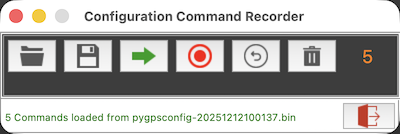
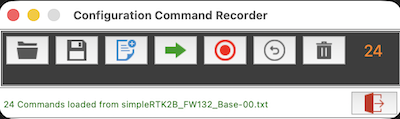
add recorder preset import facility

diff --git a/src/pygpsclient/recorder_dialog.py b/src/pygpsclient/recorder_dialog.py
@@ -18,6 +18,7 @@ Created on 9 Jan 2023
 
 # pylint: disable=unused-argument
 
+from datetime import datetime
 from threading import Event, Thread
 from time import sleep
 from tkinter import CENTER, EW, NSEW, Button, Frame, Label, TclError, W, filedialog
@@ -45,6 +46,7 @@ from pygpsclient.globals import (
     FGCOL,
     HOME,
     ICON_DELETE,
+    ICON_IMPORT,
     ICON_LOAD,
     ICON_RECORD,
     ICON_SAVE,
@@ -56,7 +58,7 @@ from pygpsclient.globals import (
     PNTCOL,
     UNDO,
 )
-from pygpsclient.helpers import set_filename
+from pygpsclient.helpers import nmea2preset, set_filename, tty2preset, ubx2preset
 from pygpsclient.strings import DLGTRECORD, SAVETITLE
 from pygpsclient.toplevel_dialog import ToplevelDialog
 
@@ -100,6 +102,7 @@ class RecorderDialog(ToplevelDialog):
         self._img_play = ImageTk.PhotoImage(Image.open(ICON_SEND))
         self._img_stop = ImageTk.PhotoImage(Image.open(ICON_STOP))
         self._img_record = ImageTk.PhotoImage(Image.open(ICON_RECORD))
+        self._img_import = ImageTk.PhotoImage(Image.open(ICON_IMPORT))
         self._img_undo = ImageTk.PhotoImage(Image.open(ICON_UNDO))
         self._img_delete = ImageTk.PhotoImage(Image.open(ICON_DELETE))
         self._rec_status = STOP
@@ -135,6 +138,14 @@ class RecorderDialog(ToplevelDialog):
             image=self._img_save,
             width=40,
             command=self._on_save,
+            highlightbackground=BGCOL,
+            highlightthickness=2,
+        )
+        self._btn_import = Button(
+            self._frm_body,
+            image=self._img_import,
+            width=40,
+            command=self._on_import,
             highlightbackground=BGCOL,
             highlightthickness=2,
         )
@@ -191,11 +202,12 @@ class RecorderDialog(ToplevelDialog):
         self._frm_body.grid(column=0, row=0, sticky=NSEW)
         self._btn_load.grid(column=0, row=0, ipadx=3, ipady=3, sticky=W)
         self._btn_save.grid(column=1, row=0, ipadx=3, ipady=3, sticky=W)
-        self._btn_play.grid(column=2, row=0, ipadx=3, ipady=3, sticky=W)
-        self._btn_record.grid(column=3, row=0, ipadx=3, ipady=3, sticky=W)
-        self._btn_undo.grid(column=4, row=0, ipadx=3, ipady=3, sticky=W)
-        self._btn_delete.grid(column=5, row=0, ipadx=3, ipady=3, sticky=W)
-        self._lbl_memory.grid(column=6, row=0, ipadx=3, ipady=3, sticky=W)
+        self._btn_import.grid(column=2, row=0, ipadx=3, ipady=3, sticky=W)
+        self._btn_play.grid(column=3, row=0, ipadx=3, ipady=3, sticky=W)
+        self._btn_record.grid(column=4, row=0, ipadx=3, ipady=3, sticky=W)
+        self._btn_undo.grid(column=5, row=0, ipadx=3, ipady=3, sticky=W)
+        self._btn_delete.grid(column=6, row=0, ipadx=3, ipady=3, sticky=W)
+        self._lbl_memory.grid(column=7, row=0, ipadx=3, ipady=3, sticky=W)
         self._lbl_activity.grid(column=0, row=2, columnspan=7, padx=3, sticky=EW)
 
         (cols, rows) = self.grid_size()
@@ -450,6 +462,49 @@ class RecorderDialog(ToplevelDialog):
         stat = "started" if self._rec_status else "stopped"
         self.status_label = (f"Recording {stat}", INFOCOL)
         self._update_status()
+
+    def _on_import(self):
+        """
+        Import commands as presets.
+
+        NB: Assumes all commands in a single recording are of the
+        same type (i.e. UBX, NMEA or TTY).
+        """
+
+        if self._rec_status == RECORD:
+            return
+
+        if len(self.__app.recorded_commands) == 0:
+            self.status_label = ("Nothing to import", ERRCOL)
+            return
+
+        try:
+            now = f'Recorded commands {datetime.now().strftime("%Y-%m-%d_%H:%M:%S")}'
+            if isinstance(self.__app.recorded_commands[0], UBXMessage):
+                self.__app.configuration.get("ubxpresets_l").append(
+                    ubx2preset(self.__app.recorded_commands, now)
+                )
+                typ = "UBX"
+            elif isinstance(self.__app.recorded_commands[0], NMEAMessage):
+                self.__app.configuration.get("nmeapresets_l").append(
+                    nmea2preset(self.__app.recorded_commands, now)
+                )
+                typ = "NMEA"
+            else:  # tty
+                self.__app.configuration.get("ttypresets_l").append(
+                    tty2preset(self.__app.recorded_commands, now)
+                )
+                typ = "TTY"
+
+            self.status_label = (
+                f"{len(self.__app.recorded_commands)} commands imported as {typ} presets",
+                OKCOL,
+            )
+        except AttributeError:
+            self.status_label = (
+                "Recorded commands must be of same type",
+                ERRCOL,
+            )
 
     def _on_undo(self):
         """

diff --git a/src/pygpsclient/helpers.py b/src/pygpsclient/helpers.py
@@ -39,7 +39,7 @@ from tkinter import (
 )
 from typing import Literal
 
-from pynmeagps import WGS84_SMAJ_AXIS, haversine
+from pynmeagps import WGS84_SMAJ_AXIS, NMEAMessage, haversine
 from pyubx2 import (
     SET,
     SET_LAYER_RAM,
@@ -53,6 +53,7 @@ from pyubx2 import (
 from requests import get
 
 from pygpsclient.globals import (
+    BSR,
     ERRCOL,
     FIXLOOKUP,
     GPSEPOCH0,
@@ -855,7 +856,9 @@ def ned2vector(n: float, e: float, d: float) -> tuple:
     return dis, hdg
 
 
-def nmea2preset(msgs: tuple, desc: str = "") -> str:
+def nmea2preset(
+    msgs: NMEAMessage | tuple[NMEAMessage] | list[NMEAMessage], desc: str = ""
+) -> str:
     """
     Convert one or more NMEAMessages to format suitable for adding to user-defined
     preset list `nmeapresets_l` in PyGPSClient .json configuration files.
@@ -865,14 +868,14 @@ def nmea2preset(msgs: tuple, desc: str = "") -> str:
 
     e.g. "Configure Signals; P; QTMCFGSIGNAL; W,7,3,F,3F,7,1; 1"
 
-    :param tuple msgs: NMEAmessage or tuple of NMEAmessages
+    :param NMEAMessage | tuple[NMEAMessage] | list[NMEAMessage] msgs: NMEAmessage(s)
     :param str desc: preset description
     :return: preset string
     :rtype: str
     """
 
     desc = desc.replace(";", " ")
-    if not isinstance(msgs, tuple):
+    if not isinstance(msgs, (tuple, list)):
         msgs = (msgs,)
     preset = (
         f"{msgs[0].identity} {['GET','SET','POLL'][msgs[0].msgmode]}"
@@ -1291,6 +1294,31 @@ def time2str(tim: float, sformat: str = "%H:%M:%S") -> str:
     return dt.strftime(sformat)
 
 
+def tty2preset(msgs: bytes | tuple[bytes] | list[bytes], desc: str = "") -> str:
+    """
+    Convert one or more ASCII TTY commands to format suitable for adding to user-defined
+    preset list `ttypresets_l` in PyGPSClient .json configuration files.
+
+    The format is:
+    "<description>; <ascii>"
+
+    e.g. "IM19 System reset CONFIRM; AT+SYSTEM_RESET"
+
+    :param bytes | tuple[bytes] | list[bytes] msgs: ASCII TTY command(s)
+    :param str desc: preset description
+    :return: preset string
+    :rtype: str
+    """
+
+    desc = desc.replace(";", " ")
+    if not isinstance(msgs, (tuple, list)):
+        msgs = (msgs,)
+    preset = "TTY Command" if desc == "" else desc
+    for msg in msgs:
+        preset += f"; {msg.decode("ascii", errors=BSR).strip("\r\n")}"
+    return preset
+
+
 def unused_sats(data: dict) -> int:
     """
     Get number of 'unused' sats in gnss_data.gsv_data.
@@ -1303,7 +1331,9 @@ def unused_sats(data: dict) -> int:
     return sum(1 for (_, _, _, _, cno, _) in data.values() if cno == 0)
 
 
-def ubx2preset(msgs: tuple, desc: str = "") -> str:
+def ubx2preset(
+    msgs: UBXMessage | tuple[UBXMessage] | list[UBXMessage], desc: str = ""
+) -> str:
     """
     Convert one or more UBXMessages to format suitable for adding to user-defined
     preset list `ubxpresets_l` in PyGPSClient .json configuration files.
@@ -1313,14 +1343,14 @@ def ubx2preset(msgs: tuple, desc: str = "") -> str:
 
     e.g. "Set NMEA High Precision Mode, CFG, CFG-VALSET, 000100000600931001, 1"
 
-    :param tuple msgs: UBXMessage or tuple of UBXmessages
+    :param UBXMessage | tuple[UBXMessage] | list[UBXMessage] msgs: UBXMessage(s)
     :param str desc: preset description
     :return: preset string
     :rtype: str
     """
 
     desc = desc.replace(",", " ")
-    if not isinstance(msgs, tuple):
+    if not isinstance(msgs, (tuple, list)):
         msgs = (msgs,)
     preset = (
         f"{msgs[0].identity} {['GET','SET','POLL'][msgs[0].msgmode]}"

diff --git a/src/pygpsclient/globals.py b/src/pygpsclient/globals.py
@@ -170,6 +170,7 @@ ICON_END = path.join(DIRNAME, "resources/marker_end.png")
 ICON_EXIT = path.join(DIRNAME, "resources/iconmonstr-door-6-24.png")
 ICON_EXPAND = path.join(DIRNAME, "resources/iconmonstr-arrow-80-16.png")
 ICON_GITHUB = path.join(DIRNAME, "resources/github-256.png")
+ICON_IMPORT = path.join(DIRNAME, "resources/iconmonstr-import-24.png")
 ICON_LOAD = path.join(DIRNAME, "resources/iconmonstr-folder-18-24.png")
 ICON_LOGREAD = path.join(DIRNAME, "resources/binary-1-24.png")
 ICON_NMEACONFIG = path.join(DIRNAME, "resources/iconmonstr-gear-2-24-nmea.png")

diff --git a/src/pygpsclient/__init__.py b/src/pygpsclient/__init__.py
@@ -9,7 +9,7 @@ Created on 27 Sep 2020
 # pylint: disable=invalid-name
 
 from pygpsclient._version import __version__
-from pygpsclient.helpers import nmea2preset, ubx2preset
+from pygpsclient.helpers import nmea2preset, tty2preset, ubx2preset
 from pygpsclient.sqlite_handler import retrieve_data
 
 version = __version__

diff --git a/README.md b/README.md
@@ -258,7 +258,14 @@ The following example illustrates a series of ASCII configuration commands being
 
 ![recorder screenshot](https://github.com/semuconsulting/PyGPSClient/blob/master/images/recorder_dialog.png?raw=true)
 
-This allows users to record ![record icon](https://github.com/semuconsulting/PyGPSClient/blob/master/src/pygpsclient/resources/iconmonstr-record-24.png?raw=true) a sequence of UBX, NMEA or TTY configuration commands as they are sent to a device, and to save ![save icon](https://github.com/semuconsulting/PyGPSClient/blob/master/src/pygpsclient/resources/iconmonstr-save-14-24.png?raw=true) this recording to a file. Saved files can be reloaded ![load icon](https://github.com/semuconsulting/PyGPSClient/blob/master/src/pygpsclient/resources/iconmonstr-folder-18-24.png?raw=true) and the configuration commands replayed ![play icon](https://github.com/semuconsulting/PyGPSClient/blob/master/src/pygpsclient/resources/iconmonstr-arrow-12-24.png?raw=true). This provides a means to easily reproduce a given sequence of configuration commands, or copy a saved configuration between compatible devices. The Configuration Load facility can accept configuration files in either UBX/NMEA binary (\*.bin), TTY (\*.tty) or u-center UBX text format (\*.txt). Files saved using the [ubxsave](#ubxsave) CLI utility (*installed via the `pygnssutils` library*) can also be reloaded and replayed. **Tip:** The contents of a binary (\*.bin) config file can be reviewed using PyGPSClient's [file streaming facility](#filestream), *BUT* remember to set the `Msg Mode` in the Settings panel to `SET` rather than the default `GET` ![msgmode capture](https://github.com/semuconsulting/PyGPSClient/blob/master/images/msgmode.png?raw=true).
+The configuration command load/save/record facility supports a number of configuration use cases:
+1. It allows users to record ![record icon](https://github.com/semuconsulting/PyGPSClient/blob/master/src/pygpsclient/resources/iconmonstr-record-24.png?raw=true) a sequence of UBX, NMEA or TTY configuration commands as they are sent to a device, and to save ![save icon](https://github.com/semuconsulting/PyGPSClient/blob/master/src/pygpsclient/resources/iconmonstr-save-14-24.png?raw=true) this recording to a binary file.
+1. Saved recordings can be reloaded ![load icon](https://github.com/semuconsulting/PyGPSClient/blob/master/src/pygpsclient/resources/iconmonstr-folder-18-24.png?raw=true) and the configuration commands replayed ![play icon](https://github.com/semuconsulting/PyGPSClient/blob/master/src/pygpsclient/resources/iconmonstr-arrow-12-24.png?raw=true). This provides a means to easily reproduce a given sequence of configuration commands, or copy a saved configuration between compatible devices.
+1. Recorded commands of a similar type (UBX, NMEA or TTY) can also be imported ![import icon](https://github.com/semuconsulting/PyGPSClient/blob/master/src/pygpsclient/resources/iconmonstr-import-24.png?raw=true) into PyGPSClient's json configuration file as [user defined presets](#user-defined-presets). They can then be replayed from the Presets panel via a single click.
+1. The Configuration Load facility can accept configuration files in either UBX/NMEA binary (\*.bin), TTY (\*.tty) or u-center UBX text format (\*.txt) (as also used by [Ardusimple](https://www.ardusimple.com/configuration-files/?wmc-currency=EUR)).
+1. Files saved using the [ubxsave](#ubxsave) CLI utility (*installed via the `pygnssutils` library*) can also be reloaded and replayed.
+
+**Tip:** The contents of a binary (\*.bin) config file can be reviewed using PyGPSClient's [file streaming facility](#filestream), *BUT* remember to set the `Msg Mode` in the Settings panel to `SET` rather than the default `GET` ![msgmode capture](https://github.com/semuconsulting/PyGPSClient/blob/master/images/msgmode.png?raw=true).
 
 ---
 ## <a name="ntripconfig">NTRIP Client Facilities</a>
@@ -407,10 +414,10 @@ If the command description contains the term `CONFIRM`, a pop-up confirmation bo
 
 When PyGPSClient is first started, these settings are pre-populated with an initial set of preset commands, which can be saved to a \*.json configuration file and then manually removed, amended or supplemented in accordance with the user's preferences. To reinstate this initial set at a later date, insert the line `"INIT_PRESETS",` at the top of the relevant `"ubxpresets_l"`, `"nmeapresets_l"` or `"ttypresets_l"` configuration setting.
 
-The `pygpsclient.ubx2preset()` and `pygpsclient.nmea2preset()` helper functions may be used to convert a `UBXMessage` or `NMEAMessage` object into a preset string suitable for copying and pasting into the `"ubxpresents_l":` or `"nmeapresets_l":` JSON configuration sections:
+The `pygpsclient.ubx2preset()`, `pygpsclient.nmea2preset()` and `pygpsclient.tty2preset()` helper functions may be used to convert a `UBXMessage`, `NMEAMessage` or ASCII text object into a preset string suitable for copying and pasting into the `"ubxpresents_l":`, `"nmeapresets_l":` or `"ttypresets_l":` JSON configuration sections:
 
 ```python
-from pygpsclient import ubx2preset, nmea2preset
+from pygpsclient import ubx2preset, nmea2preset, tty2preset
 from pyubx2 import UBXMessage
 from pynmeagps import NMEAMessage, SET
 
@@ -419,10 +426,14 @@ print(ubx2preset(ubx, "Configure NAV-STATUS Message Rate on ZED-F9P"))
 
 nmea = NMEAMessage("P", "QTMCFGUART", SET, baudrate=460800)
 print(nmea2preset(nmea, "Configure UART baud rate on LG290P"))
+
+tty = b"AT+SYSTEM_RESET\r\n"
+print(tty2preset(tty, "IM19 System Reset CONFIRM"))
 ```
 ```
 Configure NAV-STATUS Message Rate on ZED-F9P, CFG, CFG-MSG, 0103000100000000, 1
 Configure UART baud rate on LG290P; P; QTMCFGUART; W,460800; 1
+IM19 System reset CONFIRM; AT+SYSTEM_RESET
 ```
 
 Multiple commands can be concatenated on a single line. Illustrative examples are shown in the sample [pygpsclient.json](https://github.com/semuconsulting/PyGPSClient/blob/master/pygpsclient.json#L188) file.

diff --git a/RELEASE_NOTES.md b/RELEASE_NOTES.md
@@ -2,12 +2,16 @@
 
 ### RELEASE 1.6.0
 
+NEW FEATURES:
+
+1. Add user-selectable Signals widget, displaying individual GNSS PRN / Signal ID levels and (where applicable) correction sources (receiver must support UBX NAV-SIG messages). Provides greater granularity than the standard Levels widget. Signal IDs are shown in RINEX format e.g. "L1_C/A", "E5_aQ", etc.
+1. Add user-defined preset import facility to Configuration Load/Save/Record panel. This allows user to record a sequence of UBX, NMEA or TTY commands as they are sent to the receiver and to import this sequence as a user-defined preset in the PyGPSClient json configuration file. This obviates the need to edit the configuration file manually. Remember to re-save the configuration file to persist the changes.
+1. NTRIP Caster / Socket Server Configuration is now a separate Toplevel dialog panel, accessed through Server Config button or Menu Option Server Configuration. Number of connected clients is now displayed in topmost banner panel.
+
 CHANGES:
 
-1. NTRIP Caster / Socket Server Configuration is now separate Toplevel dialog panel, accessed through Server Config button or Menu Option Server Configuration. Number of connected clients is displayed in topmost banner panel.
-1. Add user-selectable SignalsView widget, displaying individual GNSS signal levels and (where applicable) correction sources (from UBX NAV-SIG message).
-1. Show "C/No = 0 dbHz" option ("unused satellites") is now accessible through <<double-right-click>> on LevelsView and SignalsView widgets; option removed from main Settings panel.
-1. Minor cosmetic updates to SpectrumView widget.
+1. Show "C/No = 0 dbHz" option ("unused satellites") is now accessible through double-right-click on LevelsView and SignalsView widgets; option removed from main Settings panel.
+1. Minor cosmetic updates to SpectrumView widget and Settings panel.
 
 ### RELEASE 1.5.23
 
